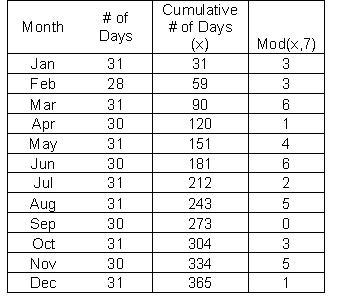
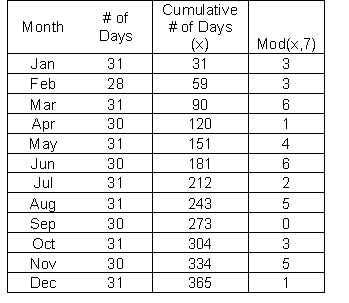
xxx

diff --git a/morea/090.algorithms/experience-algorithms-program-logic.md b/morea/090.algorithms/experience-algorithms-program-logic.md
@@ -35,7 +35,7 @@ Let’s try seeing an algorithm from the computer’s perspective to get a bette
 <img src="day-of-week-flowchart.jpg" alt="" style="max-width: 100%;max-height: 100%;" height="700px" width="800px">
 
 <div>
-<img src="mod-7-calendartable.jpg" alt="" style="max-width: 100%;max-height: 100%;" height="200px" width="150px">
+<img src="mod-7-calendartable.jpg" alt="" style="max-width: 100%;max-height: 100%;" height="200px" width="200px">
 <img src="Leap Year Flowchart.png" alt="" style="max-width: 100%;max-height: 100%;" height="200px" width="200px">
 <img src="keysToDays.png" alt="" style="max-width: 100%;max-height: 100%;" height="150px" width="150px">
 </div>
